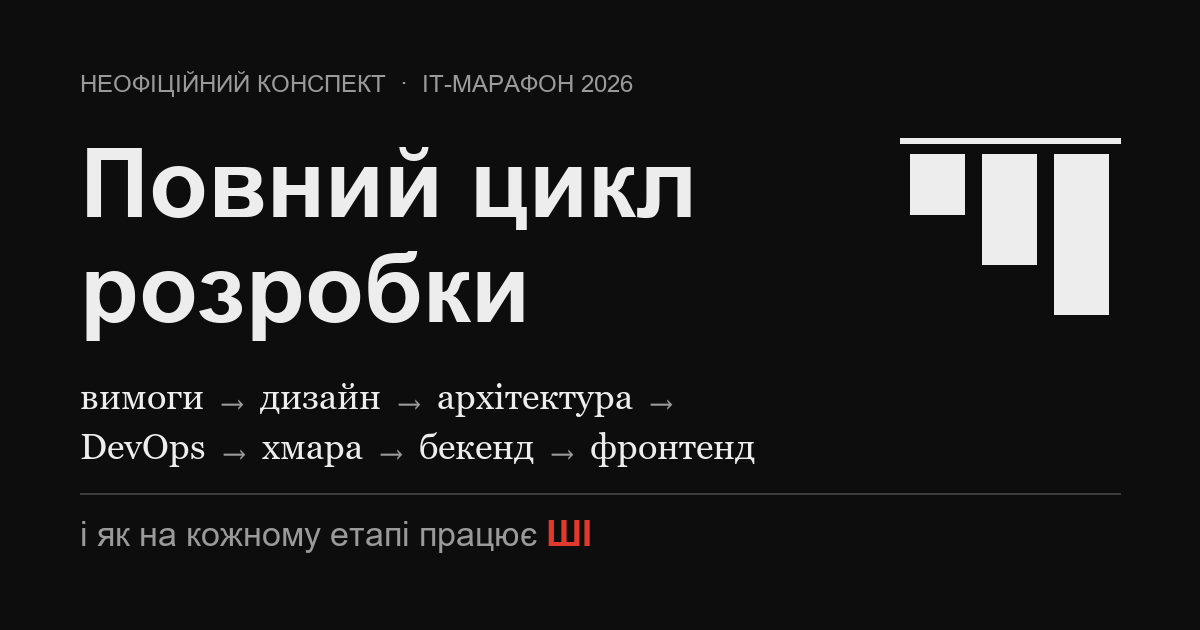
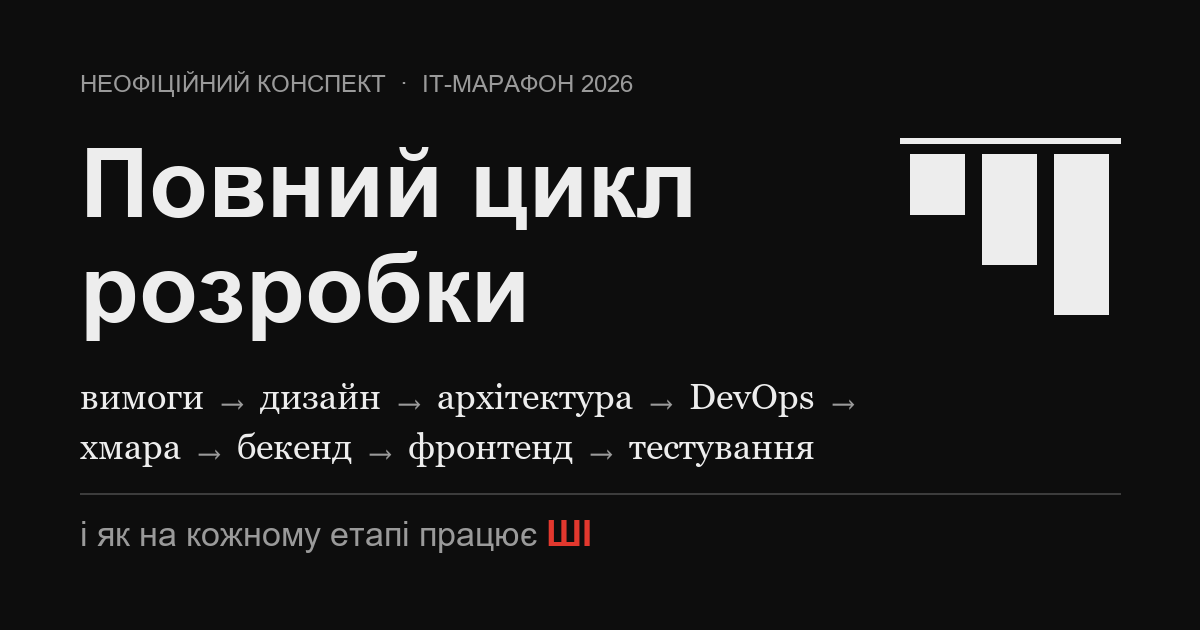
Конспект стріму про ручне тестування і оновлення сайту
- новий конспект стріму 9 (Manual Testing)
- оновлено «Одна фіча», «Навіщо весь цикл», «Шкала залучення ШІ»,
  «Сильні сторони й мінуси», «Про проєкт», головну
- словник: терміни тестування й Scrum-події
- OG-картинка з тестуванням у ланцюжку

Changed region(s): [[0.0617, 0.6635, 0.6783, 0.754], [0.555, 0.6032, 0.6783, 0.6635]]

diff --git a/src/pages/posts/19-manual-testing.md b/src/pages/posts/19-manual-testing.md
@@ -1,0 +1,186 @@
+---
+layout: ../../layouts/MarkdownPostLayout.astro
+title: "Стрім 9. Ручне тестування: від вимог до зрозумілого баг-репорту"
+date: "2026-10-28"
+description: "Роль QA на кожному етапі спринту, аналіз вимог, тест-кейси й техніки тест-дизайну, живе тестування фічі запрошення гостей і два справжні дефект-репорти."
+tags: ["тестування", "qa", "scrum", "ші"]
+video: "https://www.youtube.com/watch?v=S8Y2ySEN5DQ"
+order: 19
+section: "block"
+---
+
+## 1. Етап і роль у життєвому циклі
+
+**Тестування** — це порівняння реальної поведінки системи з вимогами, які замовник поставив ще
+до розробки. **Тестувальник (QA)** контролює це порівняння: знаходить невідповідності, фіксує їх
+і передає розробникам, щоб користувач отримав якісний продукт.
+
+Головна думка стріму: робота QA починається **задовго до того, як з'являється готова функція**.
+Повний ланцюжок:
+1. **аналіз вимог** — знайти недоліки й прогалини, поки нічого не написано;
+2. **проєктування тест-кейсів** і підготовка **тестових даних** (наприклад, набір валідних і
+   невалідних email і паролів для перевірки входу);
+3. **тестування** за підготовленими сценаріями;
+4. **баг-репорти** з прозорими кроками відтворення;
+5. **повторна перевірка** виправлень;
+6. **регресійне тестування** — переконатися, що нові зміни й виправлення не зламали те, що вже
+   працювало;
+7. **сигнал команді**, що продукт готовий до релізу.
+
+## 2. Ключові ідеї
+
+**QA у спринті Scrum.** Спринт триває від одного до чотирьох тижнів (на проєкті лекторки — три).
+Ролі: Product Owner найкраще знає продукт, Scrum Master стежить за процесом, «розробники» —
+усі, хто створює продукт, зокрема тестувальники й дизайнери. Що потрібно QA на кожній події:
+
+| Подія | Що робить QA | Які навички потрібні |
+|---|---|---|
+| Backlog refinement | слухає пояснення BA (бізнес-аналітика), шукає нелогічне й пропущене | англійська від B1, аналіз вимог, уміння поставити питання, проактивність |
+| Оцінка в story points | оцінює час на тест-кейси, тестування й перевірку виправлень | досвід |
+| Проєктування тестів | пише сценарії в системі керування тестами (TestRail тощо) | техніки тест-дизайну, керування часом |
+| Daily | коротко повідомляє статус, просить допомоги з блокерами | конструктивна комунікація |
+| Тестування | порівнює поведінку з вимогами і макетом | увага до деталей, DevTools браузера, API, бази даних, емулятори пристроїв |
+| Знайдено дефект | пише баг-репорт, спокійно відстоює його з опорою на вимоги чи BA | чіткість, витримка в конфлікті |
+| Зміна вимог посеред спринту | швидко переписує сценарії й стратегію | гнучкість і спокій |
+| Demo | часто сам презентує готову функцію клієнту — бо пройшов її від початку до кінця | навички презентації |
+| Retrospective | робить висновки, пропонує покращення процесу | командне мислення |
+
+Кілька деталей зі стріму:
+- **API-тестування** потрібне, коли бекенд уже готовий, а інтерфейсу ще немає: надсилаєш запит і
+  перевіряєш код і тіло відповіді за вимогами;
+- **база даних**: після реєстрації перевірити не лише екран, а й що користувач справді
+  збережений;
+- **емулятори** дозволяють перевірити веб чи мобільний застосунок на телефонах і планшетах;
+- **англійська** — від B1: вимоги, тест-кейси, баг-репорти, демо й більшість дзвінків ідуть
+  англійською.
+
+**Вимоги = user story + макет.** User story описує функціональність, макет у Figma — її
+візуальне втілення. QA звіряє одне з одним і з реальною поведінкою.
+
+**Тест-кейс** — набір умов, кроків і вхідних даних для перевірки конкретної функції:
+- **ID** — зазвичай присвоює система;
+- **назва** — коротко, що перевіряємо;
+- **передумови** — що має бути виконано до початку;
+- **кроки** й **очікуваний результат** для кожного кроку.
+
+Статуси після запуску: **Passed** (усе добре), **Failed** (знайдено дефект), **Blocked** (не
+можемо перевірити, бо зламано щось попереду — наприклад, не генерується посилання-запрошення),
+**Skipped** (команда вирішила цю функцію не робити). Якщо частину кроків доводиться пропускати —
+кейс варто розділити на два.
+
+**Техніки тест-дизайну** — правила, які скорочують кількість перевірок без втрати якості:
+- **Класи еквівалентності.** Поле приймає вік від 18 до 65: усі значення всередині поводяться
+  однаково, тож достатньо одного (наприклад, 30) і по одному за межами (15 і 70).
+- **Граничні значення.** Помилки ховаються на краях діапазону: перевіряємо саму межу й сусідні
+  значення — 17, 18, 19 і 64, 65, 66.
+- **Таблиця рішень** — коли результат залежить від комбінації умов:
+
+  | Преміум-клієнт | Покупка понад $100 | Знижка |
+  |---|---|---|
+  | так | так | 20% |
+  | так | ні | 10% |
+  | ні | так | 5% |
+  | ні | ні | 0% |
+
+- **Переходи станів** — замовлення «створено → оплачено → відправлено → доставлено»; окремо
+  перевіряємо заборонені переходи (з «доставлено» назад у «створено» — це дефект).
+- **Сценарії використання** — тест повного шляху користувача: увійти → обрати товар → додати в
+  кошик → оплатити.
+
+**Дефект-репорт:**
+- **ID** і **заголовок** — лаконічний, щоб розробник одразу зрозумів суть;
+- **передумови** і **кроки відтворення**;
+- **фактичний** і **очікуваний результат** (очікуваний — з вимог);
+- **скриншот** для статичних проблем, **запис екрана** — для динамічних (кнопка не натискається);
+- **середовище** — dev, test чи production;
+- **серйозність (severity)** — наскільки дефект шкодить системі: **Blocker** (функцію неможливо
+  використати), **Critical** (є обхідний шлях, але вплив великий — наприклад, посилання
+  відкривається лише з другого разу чи лише в одному браузері), **Major** (функція не вважається
+  готовою, але тестування триває), **Minor / Trivial** (візуальні дрібниці: колір, відсутня
+  іконка);
+- **пріоритет (priority)** — як швидко виправляти: **High**, **Medium**, **Low**; розробники
+  беруться за наступний рівень, лише закривши попередній.
+
+**Дефект чи баг.** Лекторка розрізняє: **дефект** — невідповідність вимогам, знайдена під час
+тестування нової user story; **баг** — проблема в уже готовій функціональності, не пов'язана з
+поточною історією, і її заводять окремо. У Jira дефект прив'язують до user story, баг живе
+окремо. Термінологія різниться між компаніями — у міжнародному глосарії ISTQB ці слова часто
+вживають як синоніми, тож варто уточнювати домовленості на своєму проєкті.
+
+## 3. Як це виглядало на навчальному проєкті
+
+**Аналіз вимог.** Розбирали user story «гість без акаунта заходить за посиланням, вводить ім'я
+і переходить до меню». Передумови: власник броні згенерував посилання, бронювання в статусі
+«Reserved». Уже на цьому кроці знайшлася неясність: критерії вимагають показати гостю «стіл»,
+а на макеті такої інформації немає — це питання до бізнес-аналітика ще до тестування.
+
+**Два тест-кейси:**
+1. *Активне бронювання.* Гість відкриває посилання без входу → бачить вікно-запрошення з тим, хто
+   запросив, рестораном, локацією, датою й часом, як на макеті → поле імені порожнє, кнопка
+   «Browse Menu» неактивна → вводить **один символ** (за класами еквівалентності решта довжин
+   поводиться так само) → кнопка активується → перехід до меню.
+2. *Скасоване бронювання.* Той самий перехід за посиланням → статична сторінка з повідомленням,
+   що сесія більше не активна.
+
+Порада: перевіряти як незалогінений гість — у новій вкладці чи браузері без сесії власника.
+
+**Живе тестування знайшло два справжні дефекти:**
+
+| Дефект | Severity | Priority | Чому так |
+|---|---|---|---|
+| У вікні-запрошенні є кнопка закриття, якої немає ні у вимогах, ні на макеті; натискання нічого не робить | Major | Medium | функцію не зламано, але кнопка, що не працює, заплутує користувача |
+| За посиланням на скасоване бронювання показується інше повідомлення, ніж у вимогах | Major | Medium | гість подумає, що проблема зі з'єднанням, а не що треба попросити власника про нове бронювання |
+
+Перший може згодом стати не виправленням, а покращенням: команда вирішить, прибрати кнопку чи
+зробити її робочою. Обидва тест-кейси отримали статус **Failed**.
+
+**Практика після стріму:** пройти той самий шлях — вимоги → тест-кейси → тестування →
+баг-репорти — на власному розгорнутому застосунку. Якщо фічу вже змінено, можна взяти іншу
+частину функціональності або написати вимоги до своєї зміни і тестувати за ними; головне —
+вказати, що саме перевірялося.
+
+> **Матеріали:** user story, шаблони тест-кейсів і дефект-репортів — дивіться матеріали, які Ви
+> отримали від організаторів.
+
+## 4. Скільки цього потрібно розробнику
+
+- **Вміти:** перевірити свою фічу за acceptance criteria до того, як віддати на тестування, —
+  включно з негативними сценаріями й граничними значеннями; написати зрозумілий баг-репорт з
+  кроками відтворення, фактичним і очікуваним результатом; користуватися DevTools.
+- **Розуміти:** класи еквівалентності, граничні значення, таблиці рішень і переходи станів — ті
+  самі техніки підказують, які unit-тести писати; що таке регресія і чому виправлення може
+  зламати сусідню функцію; різницю між severity і priority.
+- **Знати:** системи керування тестами (TestRail), трекери (Jira), емулятори пристроїв, як QA
+  працює з API й базою даних.
+
+Головне для команди: тестувальник — не «той, хто наприкінці шукає помилки», а учасник з першого
+дня, який ловить неясності у вимогах, коли виправити їх найдешевше.
+
+## 5. ШІ в цьому блоці
+
+**Що показали:** нічого. Лекторка працює на проєкті, де ШІ **суворо заборонений** через вимоги
+безпеки: дані не можна передавати назовні. Модератор додав, що в банківських і медичних проєктах
+така заборона — звична річ, і навіть корпоративні ШІ-інструменти використовують лише в межах
+внутрішньої політики.
+
+**Рівень:** не визначається (за [шкалою залучення ШІ](/posts/02-ai-depth) від L0 «чат» до L5
+«ШІ в процесі команди»): роботи зі ШІ не було — і це свідомий вибір проєкту, а не прогалина
+лекції.
+
+Це важлива контрточка до решти інтенсиву: уміння працювати без ШІ й розуміння, **чому** його
+можуть заборонити, — теж частина професії.
+
+**Як могло бути глибше (там, де ШІ дозволено):** згенерувати чернетку тест-кейсів прямо з
+acceptance criteria, таблицю граничних значень і класів еквівалентності для полів форми, чернетку
+баг-репорту з нотаток і скриншота; агент, що проходить тест-кейс у браузері й прикладає
+скриншоти. Але статус Passed чи Failed і severity виставляє людина.
+
+## 6. Самоперевірка
+
+1. Чому QA бере участь у backlog refinement, а не лише тестує готову функцію?
+2. Поле приймає від 1 до 50 символів. Які значення перевірити за класами еквівалентності, а які —
+   за граничними значеннями?
+3. Чим Blocked відрізняється від Failed? Наведи приклад з фічі запрошення гостей.
+4. Чим severity відрізняється від priority? Чи може дефект з низькою severity мати високий
+   priority?
+5. Які поля обов'язкові в баг-репорті і навіщо вказувати середовище?

diff --git a/src/pages/posts/00-why-full-cycle.md b/src/pages/posts/00-why-full-cycle.md
@@ -2,7 +2,7 @@
 layout: ../../layouts/MarkdownPostLayout.astro
 title: "Навіщо розробнику у 2026 знати весь цикл — і чому не все глибоко"
 date: "2026-10-26"
-description: "Аргументи з самих стрімів: чому без розуміння вимог, дизайну, архітектури, DevOps, бекенду й фронтенду розробник програє — і як визначити потрібну глибину."
+description: "Аргументи з самих стрімів: чому без розуміння вимог, дизайну, архітектури, DevOps, бекенду, фронтенду й тестування розробник програє — і як визначити потрібну глибину."
 tags: ["sdlc", "розвиток", "ші"]
 order: 1
 section: "essay"
@@ -53,6 +53,12 @@ section: "essay"
 трохи «фулстек» — розуміти і фронтенд, і бекенд: хоча б те, що означає кожен код відповіді API і
 як його показати користувачу.
 
+Стрім про тестування показав це з іншого боку: тестувальник працює з першого дня спринту, а не
+наприкінці. Він читає ті самі вимоги й макети, ловить неясності ще до розробки, перевіряє API й
+базу даних, а на демо часто сам презентує фічу клієнту — бо єдиний пройшов її від вимог до
+релізу. Щоб робити це, QA має розуміти всі попередні етапи; щоб співпрацювати з QA, розробник має
+розуміти, як той думає.
+
 ## Аргумент 4. Ринок це вже перевіряє
 
 Зі стріму 7: на співбесідах уже питають, як кандидат користується ШІ, — і слабке володіння цими
@@ -85,6 +91,7 @@ section: "essay"
 | Хмара та IaC | провайдери й модулі | стан, plan/apply, оновлення vs розгортання | розгорнути й прибрати за README |
 | Бекенд | платформа, SOLID | REST, auth, шари, SQL/NoSQL | HTTP-запити, коди відповіді, токени |
 | Фронтенд | екосистеми фреймворків, схеми валідації | event loop, SPA, як фреймворк оновлює екран | семантика й доступність, обробка кожної відповіді API |
+| Ручне тестування | TestRail, Jira, емулятори | техніки тест-дизайну, регресія, severity і priority | перевірити свою фічу за критеріями, написати баг-репорт |
 | ШІ | — | промпт, скіл, агент, оркестрація | ставити задачу агенту й перевіряти результат |
 
 Скорочення в таблиці:
@@ -99,7 +106,10 @@ section: "essay"
 - **SPA** — застосунок, який завантажується один раз і далі змінює сторінку без перезавантаження;
   **API** — інтерфейс, через який фронтенд обмінюється даними з бекендом; **event loop** —
   механізм, що виконує асинхронні задачі в однопотоковому JavaScript;
-- **BA** — бізнес-аналітик; **QA** — забезпечення якості й тестування.
+- **BA** — бізнес-аналітик; **QA** — забезпечення якості й тестування;
+- **TestRail** — система для зберігання й запуску тест-кейсів; **Jira** — трекер задач і
+  дефектів; **severity** — наскільки дефект шкодить системі; **priority** — як швидко його
+  виправляти.
 
 Це T-подібний профіль: широка «перекладина» розуміння всього циклу і глибока «ніжка» у своїй
 спеціалізації.

diff --git a/src/pages/posts/02-ai-depth.md b/src/pages/posts/02-ai-depth.md
@@ -50,6 +50,7 @@ section: "essay"
 | [6. Бекенд-теорія](/posts/16-backend-theory) | Огляд інструментів, понять агент/скіл/промпт/MCP, правил приймання ШІ-коду | **L1–L4 у теорії** | Розповіли про рівні від асистента в IDE (L1) до оркестрації (L4), але без практики |
 | [7. Бекенд-практика](/posts/17-backend-practice) | Власні агенти з ролями, оркестратор, субагенти, план у файлі, рев'ю агентом | **L3–L4** — власні агенти й оркестрація | Створили агентів під проєкт (L3), а оркестратор розподілив між ними задачу (L4) |
 | [8. Фронтенд](/posts/18-frontend) | ШІ-рев'юер pull request'ів, `CLAUDE.md` з правилами для агентів, скіли й агенти; формула промпту, цикл Explore → Plan → Code → Verify, правила контексту | **L3 + L5** (вузька роль) і методологія | Правила й агенти під проєкт (L3) та рев'ю в CI (L5); наживо не показували, зате дали найповніший набір правил роботи |
+| [9. Ручне тестування](/posts/19-manual-testing) | Нічого: на проєкті лекторки ШІ заборонений вимогами безпеки | **—** | Рівень не визначити — і це свідоме рішення проєкту, а не прогалина лекції |
 
 **Висновок:** інтенсив показав увесь спектр, але **нерівномірно**. Найбільше практики ШІ — на
 рівнях L0–L1 (чат і асистент в інструменті) та один сильний приклад L4 (оркестрація агентів) на
@@ -110,6 +111,8 @@ section: "essay"
 - **Безпека.** Агенту не можна давати паролі, токени, персональні дані; права — мінімальні;
   інфраструктурні зміни — лише після перегляду плану.
 - **Дозволи.** На реальних проєктах ШІ можна використовувати лише за погодженням і через
-  корпоративні підписки, щоб код не потрапляв у навчання зовнішніх моделей.
+  корпоративні підписки, щоб код не потрапляв у навчання зовнішніх моделей. А на деяких — зокрема
+  банківських і медичних — його забороняють повністю: тестувальниця зі стріму 9 працює саме на
+  такому проєкті. Тож уміння працювати без ШІ теж лишається частиною професії.
 - **Розуміння.** Чим глибший рівень, тим більше питань на кшталт «а як це працює?» доведеться
   розбирати самому. Агент пришвидшує роботу того, хто розуміє, і примножує помилки того, хто ні.

diff --git a/src/pages/posts/01-one-feature.md b/src/pages/posts/01-one-feature.md
@@ -2,7 +2,7 @@
 layout: ../../layouts/MarkdownPostLayout.astro
 title: "Одна фіча через весь цикл: груповий передзамовлення"
 date: "2026-10-26"
-description: "Карта того, як одна функція навчального застосунку пройшла вимоги, дизайн, архітектуру, інфраструктуру, бекенд і фронтенд."
+description: "Карта того, як одна функція навчального застосунку пройшла вимоги, дизайн, архітектуру, інфраструктуру, бекенд, фронтенд і ручне тестування."
 tags: ["sdlc", "кейс"]
 order: 2
 section: "essay"
@@ -66,10 +66,21 @@ section: "essay"
   бекенду), і лише потім — підключення до реальних ендпоінтів у хмарі.
 - Готові автоматичні тести для кожного етапу показують, що вже працює.
 
+## 7. Ручне тестування → [стрім 9](/posts/19-manual-testing)
+
+- Ще на аналізі вимог тестувальник знайшов неясність: критерії згадують «стіл», а на макеті його
+  немає — питання до аналітика до того, як хтось почне тестувати.
+- Із критеріїв приймання вийшло два тест-кейси: активне бронювання (вхід без логіна, деталі як
+  на макеті, кнопка меню активна лише з іменем) і скасоване (статична сторінка «сесія
+  неактивна»).
+- Живе тестування знайшло два дефекти: зайва непрацююча кнопка закриття у вікні-запрошенні і не
+  те повідомлення для скасованого бронювання. Обидва — Major, пріоритет Medium.
+- Те саме правило з першого стріму («посилання діє лише для активної броні») стало і тест-кейсом,
+  і дефект-репортом.
+
 ## Що попереду
 
-За програмою — ручне та автоматизоване тестування. Конспекти з'являться тут, коли пройдуть
-стріми.
+За програмою — автоматизоване тестування. Конспект з'явиться тут, коли пройде стрім.
 
 ## Головний висновок
 

diff --git a/src/pages/posts/03-pros-cons.md b/src/pages/posts/03-pros-cons.md
@@ -45,9 +45,18 @@ section: "essay"
 сказав, що частина коду ще стара. Так виглядають реальні проєкти: не ідеальний код, а код, який
 постійно доводять до ладу.
 
+**11. Тестування наживо знайшло справжні дефекти.** На стрімі про ручне тестування лекторка
+пройшла фічу запрошення гостей за тест-кейсами й знайшла дві реальні невідповідності вимогам у
+навчальному застосунку — і одразу оформила на них дефект-репорти. Це чесний доказ, що вимоги,
+дизайн, код і тести — окремі артефакти, які легко розходяться.
+
+**12. Показано й світ без ШІ.** Тестувальниця працює на проєкті, де ШІ заборонений вимогами
+безпеки. Після кількох стрімів про агентів це корисне нагадування: не всюди їх можна
+використовувати.
+
 ## Мінуси
 
-**1. Темп.** Дев'ять тем за два тижні — це огляд, а не навчання. Більшість блоків дає рівень
+**1. Темп.** Десять тем за два тижні — це огляд, а не навчання. Більшість блоків дає рівень
 «знати» й «розуміти», а не «вміти».
 
 **2. Нерівна глибина.** Частина стрімів — теорія та розповіді, частина — щільна практика з
